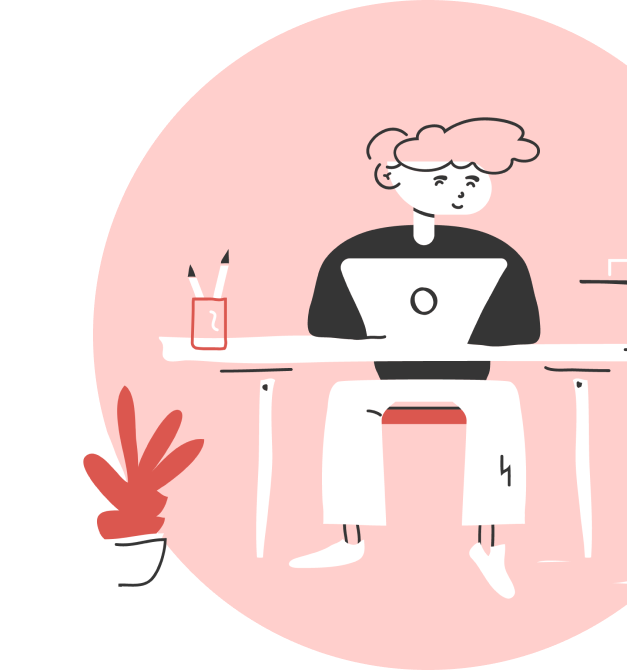
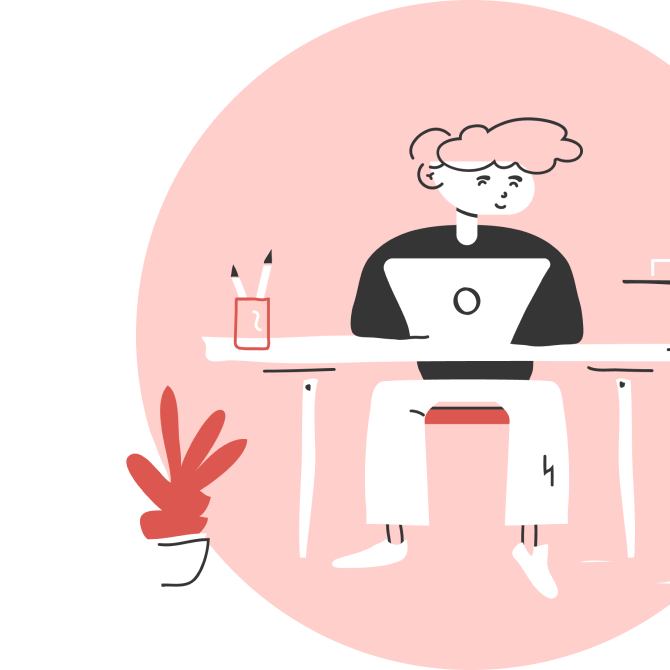
Clean Landing

diff --git a/src/components/Onboard/index.jsx b/src/components/Onboard/index.jsx
@@ -1,33 +1,13 @@
-import React, { useState, useEffect } from 'react';
+import React from 'react';
 import { Select, Button } from 'antd';
 
-import { getColleges, getMajors } from '../../actions/info';
+import history from '../../history';
 
 import './style.less';
 
 const { Option } = Select;
 
 const Onboard = () => {
-    const [colleges, setColleges] = useState([]);
-    const [majors, setMajors] = useState([]);
-
-    useEffect(() => {
-        //getColleges((resp) => {
-            //console.log(resp);
-            //setColleges(resp.data)
-        //});
-    });
-
-    const onChange = (option) => {
-        // getMajors('ksdljfklds', (resp) => {
-        //     console.log(resp);
-        //     setMajors(resp.data)
-        // });
-    }
-
-    const onChangeCollege = (option) => {
-
-    }
 
     return (
         <div className="register">
@@ -38,25 +18,34 @@ const Onboard = () => {
                 <div className="welcome">Hello!</div>
                 <div className="input-container">
                     <div>
-                        <Select className="dropdown" style={{ width: 300 }} placeholder="Select your college" onChange={onChangeCollege} >
-                            {colleges.map((college) => 
-                                <Option value={college.uuid}>{college.name}</Option>
-                            )}
+                        <Select className="dropdown" style={{ width: 300 }} placeholder="Select your college"  >
+                        <Option value="Earl Warren College">Earl Warren College</Option>
+                             <Option value="Revelle College">Revelle College</Option>
+                             <Option value="John Muir College">John Muir College</Option>
+                             <Option value="Thurgood Marshall College">Thurgood Marshall College</Option>
+                             <Option value="Eleanor Roosevelt College">Eleanor Roosevelt College</Option>
+                             <Option value="Sixth College">Sixth College</Option>
                         </Select>
                     </div>
                 </div>
                 <div className="input-container">
                     <div>
-                        <Select className="dropdown" style={{ width: 300 }} placeholder="Major" onChange={onChange} >
-                            {majors.map((major) => 
-                                <Option value={major.uuid}>{major.name}</Option>
-                            )}
+                        <Select className="dropdown" style={{ width: 300 }} placeholder="Major" >
+                        <Option value="Bioengineering">Bioengineering</Option>
+                             <Option value="Computer Science">Computer Science</Option>
+                             <Option value="Computer Engineering">Computer Engineering</Option>
+                             <Option value="Electrical Engineering">Electrical Engineering</Option>
+                             <Option value="Engineering Physics">Engineering Physics</Option>
+                             <Option value="Aerospace Engineering">Aerospace Engineering</Option>
+                             <Option value="Environmental Engineering">Environmental Engineering</Option>
+                             <Option value="Mechanical Engineering">Mechanical Engineering</Option>
+                             <Option value="Chemical Engineering">Chemical Engineering</Option>
                         </Select>
                     </div>
                 </div>
                 <div className="input-container">
                     <div>
-                        <Select className="dropdown" style={{ width: 150 }} placeholder="Minor" onChange={onChange} >
+                        <Select className="dropdown" style={{ width: 150 }} placeholder="Minor">
                             <Option value="None">None</Option>
                             <Option value="Accounting">Accounting</Option>
                             <Option value="Anthropology">Anthropology</Option>
@@ -67,7 +56,7 @@ const Onboard = () => {
                             <Option value="Economics">Economics</Option>
                             <Option value="Entrepreneurship and Innovation">Entrepreneurship and Innovation</Option>
                         </Select>
-                        <Select className="dropdown" style={{ width: 150 }} placeholder="Graduation Year" optionFilterProp="year" onChange={onChange} >
+                        <Select className="dropdown" style={{ width: 150 }} placeholder="Graduation Year" >
                             <Option value="2021">2021</Option>
                             <Option value="2022">2022</Option>
                             <Option value="2023">2023</Option>
@@ -76,7 +65,7 @@ const Onboard = () => {
                     </div>
                 </div>
                 <div className="button-container">
-                    <Button className="button" type="primary" shape="round" size={"large"}>
+                    <Button className="button" type="primary" shape="round" size={"large"} onClick={() => {history.push('/planner')}}>
                         Continue
                     </Button>
                 </div>

diff --git a/src/components/Landing/index.jsx b/src/components/Landing/index.jsx
@@ -1,47 +1,31 @@
 import React from 'react';
-import { Button, Radio } from 'antd';
-import { DownloadOutlined } from '@ant-design/icons';
+import { Button } from 'antd';
 import './style.less';
 
 import Picture from '../../landing.png';
+import history from '../../history';
 
 const Landing = () => {
     return (
         <div>
-        <div className="landing">
-            <div>
-                <div className="header-title">YourYear</div>
-                <div className="button-container">
-                    <Button className="signin-button" type="primary" shape="round" size={"large"}>
-                        Login
-                    </Button>
+            <div className="landing">
+                <div style={{ marginTop: '2.5vh', marginLeft: '5vw', marginRight: '5vw', display: 'flex', justifyContent: 'space-between' }}>
+                    <div className="header-title">YourYear</div>
+                    <div className="button-container">
+                        <Button className="signup-button" type="primary" shape="round" size={"large"} onClick={() => { history.push('/register') }}>Get Started</Button>
+                        <Button className="signin-button" type="primary" shape="round" size={"large"} onClick={() => { history.push('/login') }}>Login</Button>
+                    </div>
                 </div>
-                <div className="about-us">About us</div>
+
+                <div style={{ display: 'flex', flexDirection: 'column', alignItems: 'center', width: '100vw' }}>
+                    <div style={{ display: 'flex', flexDirection: 'column', alignItems: 'center', width: '50%' }}>
+                        <h1>A 4-year course planner made with your way</h1>
+                        <h2>YourYear allows students to plan their educational plan with a sleek drag and drop interface. We make sure you reach you fulfill all university requirements and as well as keeping track of your GPA and units.</h2>
+                    </div>
+                </div>
+
+                <img src={Picture} style={{ position: 'absolute', right: 0, bottom: 0, height: '500px', width: '500px' }}></img>
             </div>
-            <div className="headline">
-                <h1>A 4-year course planner</h1>
-            </div>
-            <div className="headline-2">
-                <h1>made with your way</h1>
-            </div>
-            <div className="description-1">
-                <h2>YourYear allows students to plan their educational plan with a sleek </h2>
-            </div>
-            <div className="description-2">
-                <h2>drag and drop interface. We make sure you reach you fulfill all</h2>
-            </div>
-            <div className="description-3">
-                <h2>university requirements and as well as keeping track of your GPA and units.</h2>
-            </div>
-        </div>
-        <div className="button-container-signup">
-            <Button className="signup-button" type="primary" shape="round" size={"large"}>
-                Get Started
-            </Button>
-        </div>
-        <div className="picture-container">
-            <img src={Picture} style={{ height: 1050, width: 1050 }}></img>
-        </div>
         </div>
     );
 };

diff --git a/src/components/Landing/style.less b/src/components/Landing/style.less
@@ -1,104 +1,37 @@
-html,body {
-    margin:0;
-    padding:0;
-}
-
 .landing {
+    width: 100%;
+    height: 100%;
+    overflow: hidden;
+
     .header-title{
-        padding-left: 250px;
-        padding-top: 5px;
         font-family: Raleway;
         color: rgba(219,87,79,1);
         font-size: 40px;
         font-weight: bold;
-    }
-
-    .button-container{
-    //    display: flex;
-       margin-top: -53px;
-    //    margin-right: 20px;
-       position: absolute;
-       right: 8px;
-       padding-right: 250px;
-        
     }
     
     .signin-button{
       font-weight: bold;
     }
 
-    .about-us{
-        padding-left: 1445px;
-      //  padding-top: -10px;
-        font-family: Raleway;
-        color: rgba(219,87,79,1);
-        font-size: 25px;
-        font-weight: bold;
-        margin-top: -55px;
-        cursor: pointer;
-
-    }
-
-    h1{
+    h1 {
         font-weight: bold;
         font-family: Raleway;
         color: rgba(219,87,79,1);
-        text-align: left;
+        text-align: center;
+        font-size: 56px;
     }
 
-    .headline{
-        padding-left: 375px;
-        font-size: 30px;
-        margin-top: 165px;
-    }
-
-    .headline-2{
-        padding-left: 375px;
-        font-size: 30px;
-        margin-top: -65px;
-    }
-
-    h2{
+    h2 {
+        font-size: 24px;
         font-weight: normal;
         font-family: Raleway;
         color: black;
-        text-align: left;
+        text-align: center;
     }
-    .description-1{
-        padding-left: 375px;
-        font-size: 12px;
-        margin-top: -10px;
-    }
-
-    .description-2{
-        padding-left: 375px;
-        font-size: 12px;
-        margin-top: -15px;
-    }
-
-    .description-3{
-        padding-left: 375px;
-        font-size: 12px;
-        margin-top: -15px;
-    }
-
 }
-
-.button-container-signup{
-    //    display: flex;
-       margin-top: 10px;
-    //    margin-right: 20px;
-       position: absolute;
-       right: 8px;
-       padding-right: 1390px;
-        
-    }
 
 .ant-btn.signup-button{
     font-weight: bold;
-}
-
-.picture-container{
-    margin-left: 900px;
-    margin-top: -385px;
+    margin-right: 16px;
 }

diff --git a/src/components/Login/index.jsx b/src/components/Login/index.jsx
@@ -1,34 +1,29 @@
 import React from 'react';
-import { PageHeader } from 'antd';
-import { Layout, Menu, Breadcrumb } from 'antd';
-import { UserOutlined, LaptopOutlined, NotificationOutlined } from '@ant-design/icons';
-import { Input } from 'antd';
-import { Button, Radio } from 'antd';
-import { DownloadOutlined } from '@ant-design/icons';
+import { Button, Input } from 'antd';
 
+import history from '../../history';
 
 import './style.less';
 
 const Login = () => {
     return (
         <div className="login">
-            <div className="header"> 
+            <div className="header">
                 <div className="header-title">YourYear</div>
             </div>
             <div className="body">
-                {/* <div className="square"></div> */}
                 <div className="welcome">Member Login</div>
                 <div className="input-container">
                     <Input className="input" size="large" placeholder="Username" />
                 </div>
-                <div className="input-container"> 
-                        <Input className="input" size="large" placeholder="Password" />
+                <div className="input-container">
+                    <Input className="input" size="large" placeholder="Password" />
                 </div>
                 <div className="button-container">
-                    <Button className="button" type="primary" shape="round" size={"large"}>
-                    Login
+                    <Button className="button" type="primary" shape="round" size={"large"} onClick={() => {history.push('/onboard')}}>
+                        Login
                     </Button>
-                 </div>
+                </div>
             </div>
         </div>
     );

diff --git a/src/index.js b/src/index.js
@@ -1,7 +1,9 @@
 import React from 'react';
 import ReactDOM from 'react-dom';
 import WebFont from 'webfontloader';
-import { BrowserRouter as Router, Route, Switch } from 'react-router-dom';
+import { Router, Route, Switch } from 'react-router-dom';
+
+import history from './history';
 
 import './index.less';
 
@@ -23,13 +25,10 @@ WebFont.load({
 
 const App = () => {
   return (
-    <Router>
+    <Router history={history}>
       <div>
         <Switch>
-          <Route exact path="/guest">
-            <GuestPage />
-          </Route>
-          <Route exact path="/landing">
+        <Route exact path="/">
             <LandingPage />
           </Route>
           <Route exact path="/login">
@@ -44,7 +43,8 @@ const App = () => {
           <Route exact path="/planner">
             <PlannerPage />
           </Route>
-          <Route exact path="/">
+          <Route exact path="/guest">
+            <GuestPage />
           </Route>
         </Switch>
       </div>

diff --git a/src/history.js b/src/history.js
@@ -1,0 +1,3 @@
+import { createBrowserHistory } from 'history';
+
+export default createBrowserHistory();
